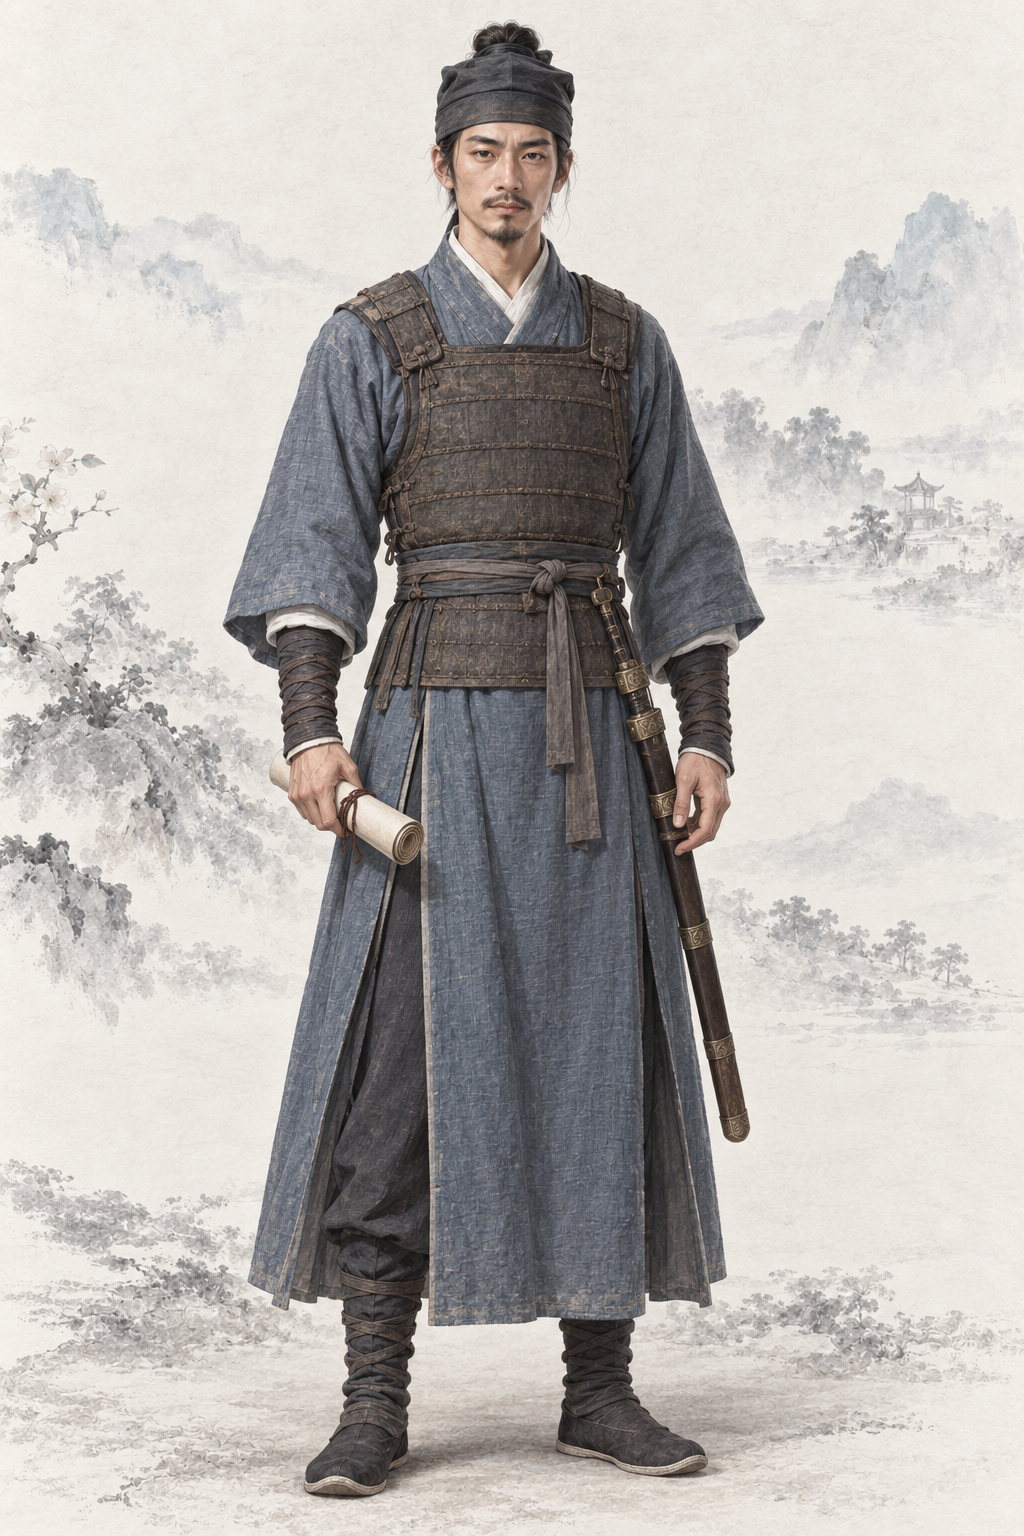
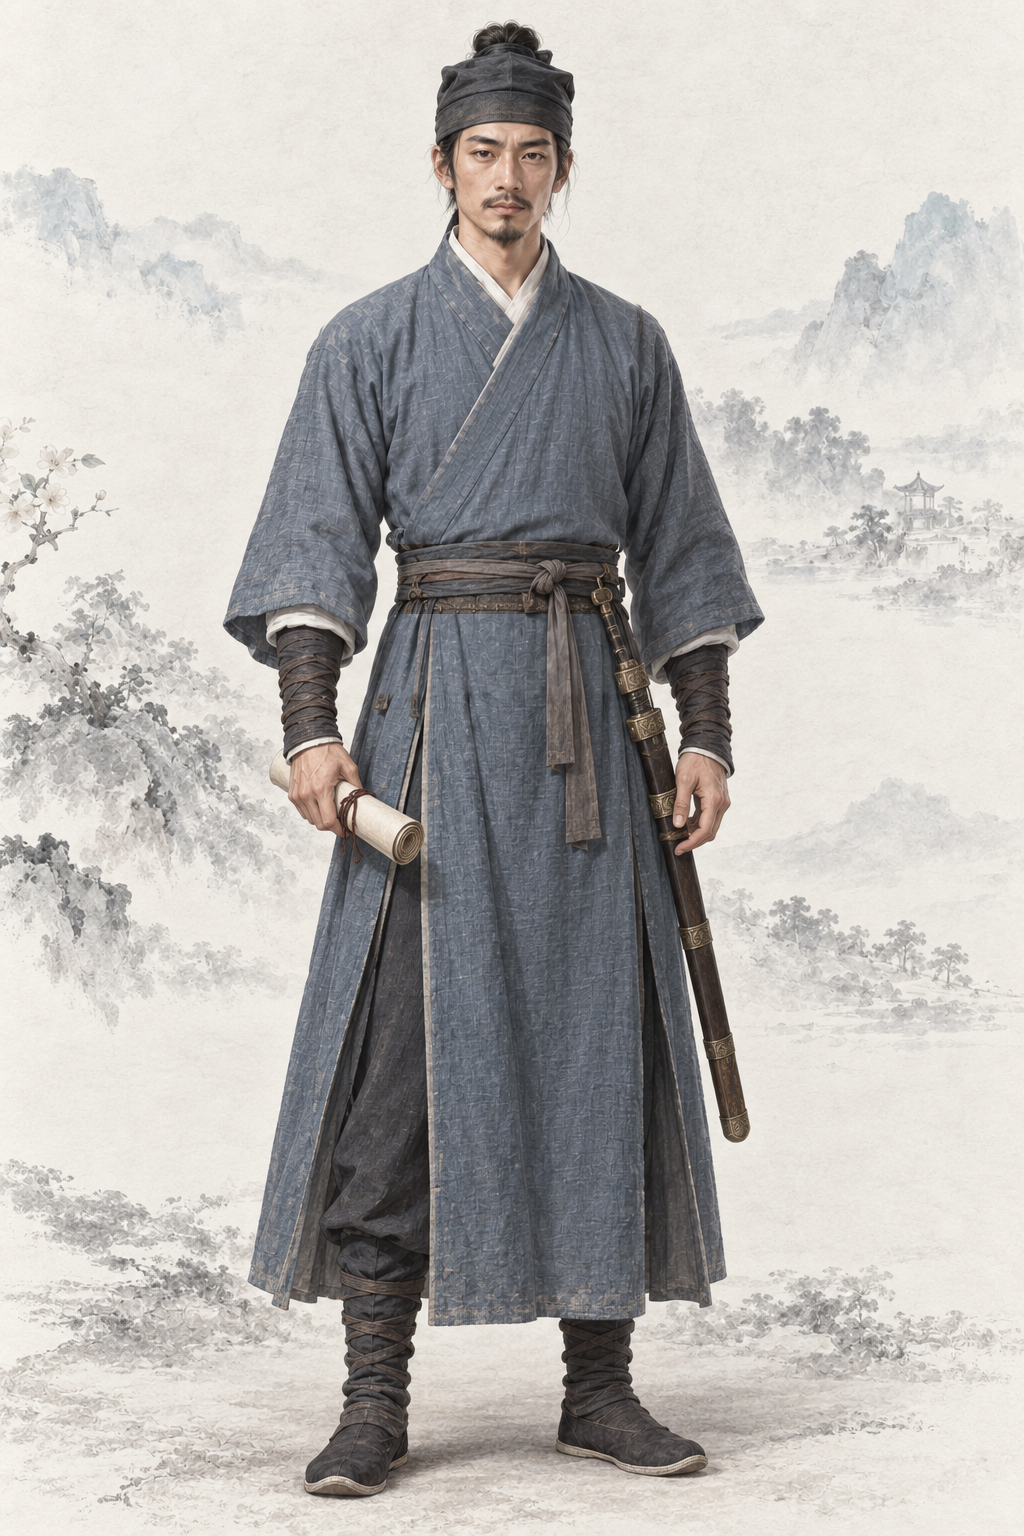
assets: AR-82 原著核对返修 李岩闯营日常书生服去胸甲护肩
李岩闯营日常书生服去胸甲护肩；原著摘句已同步提示词；蒙版外变化0像素。

Executed-By: Codex gpt-6.1-sol（AR-82）

Changed region(s): [[0.3125, 0.1562, 0.625, 0.4688]]

diff --git a/assets/default/prompts/characters/ch07-bixue/npc_liyan.md b/assets/default/prompts/characters/ch07-bixue/npc_liyan.md
@@ -19,6 +19,12 @@ realism_revision: user_identity_pose_20261001
 
 # 李岩 · 人物写实修正
 
+## AR-82 当前定稿要求
+
+只去掉上身棕色整片胸甲和两肩甲片，以现有青布书生长衫布料自然补齐胸前与肩部，书生服色、右衽交领，保留腰带、儒巾、头脸发须、手持卷轴、腰剑、手脚、下半衣袍以及原站姿。是闯营日常接待，不穿披甲将官服。
+
+以上为当前原著核对后的要求，覆盖下文旧版中与之冲突的服饰、器物、伤残、光线和体态描述。
+
 ## 人物与阶段
 
 - subject_id：npc_liyan
@@ -74,3 +80,8 @@ FINAL POSE CHECK: FRONT-FACING, head facing forward, both eyes HORIZONTALLY LEVE
 - 采用作者授权宽松自查；偏差如实记录，candidate不代表approved。
 - 源PNG通常为1024×1536 RGB；其他原生2:3尺寸如实登记，原字节保存，不裁切、重编码、放大或去除溯源。
 - 完整请求、实际参考哈希及旧版本备份见 `.agents/coord/portrait-generation/identity-20261001/por_npc_liyan__ch07_base.prepared.json`。
+
+## 原著依据
+
+- 《碧血剑》四《矫矫金蛇剑，翩翩美少年》：“身穿书生服色”（https://xuges.com/WUXIA/jinyong/bxj/021.htm）
+- AR-82 返修约束：只去掉上身棕色整片胸甲和两肩甲片，以现有青布书生长衫布料自然补齐胸前与肩部，书生服色、右衽交领，保留腰带、儒巾、头脸发须、手持卷轴、腰剑、手脚、下半衣袍以及原站姿。是闯营日常接待，不穿披甲将官服。
